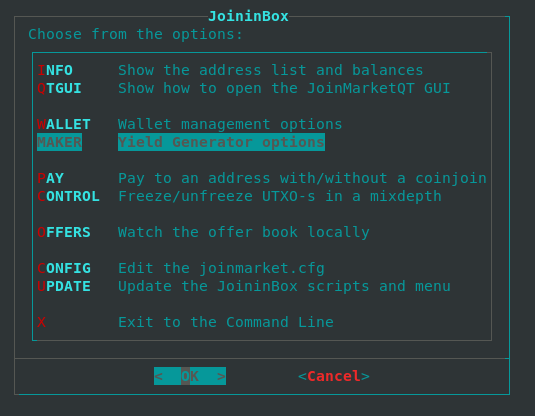
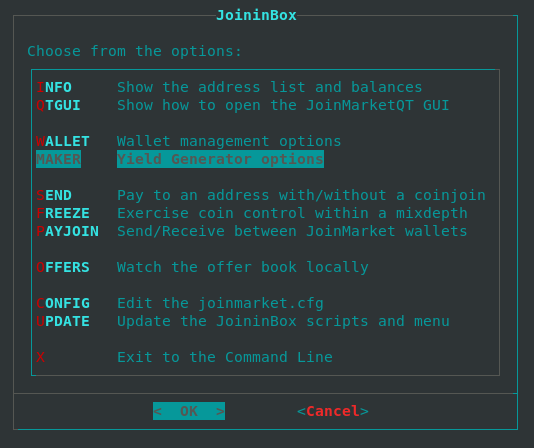
images: add payjoin menu

diff --git a/README.md b/README.md
@@ -6,11 +6,15 @@ A terminal based menu and helper UI for JoinMarket.
   <img width="400" src="/images/menu.png">
 </p>
 <p align="left">
+  <img width="400" src="/images/menu.wallet.png">
+</p>
+<p align="left">
   <img width="400" src="/images/menu.yg.png">
 </p>
 <p align="left">
-  <img width="400" src="/images/menu.wallet.png">
+  <img width="400" src="/images/menu.payjoin.png">
 </p>
+
 
 ## Install the JoininBox menu on a RaspiBlitz v1.5+ 
 * Run the script in the RaspiBlitz terminal (will install JoinMarket if not active already):
